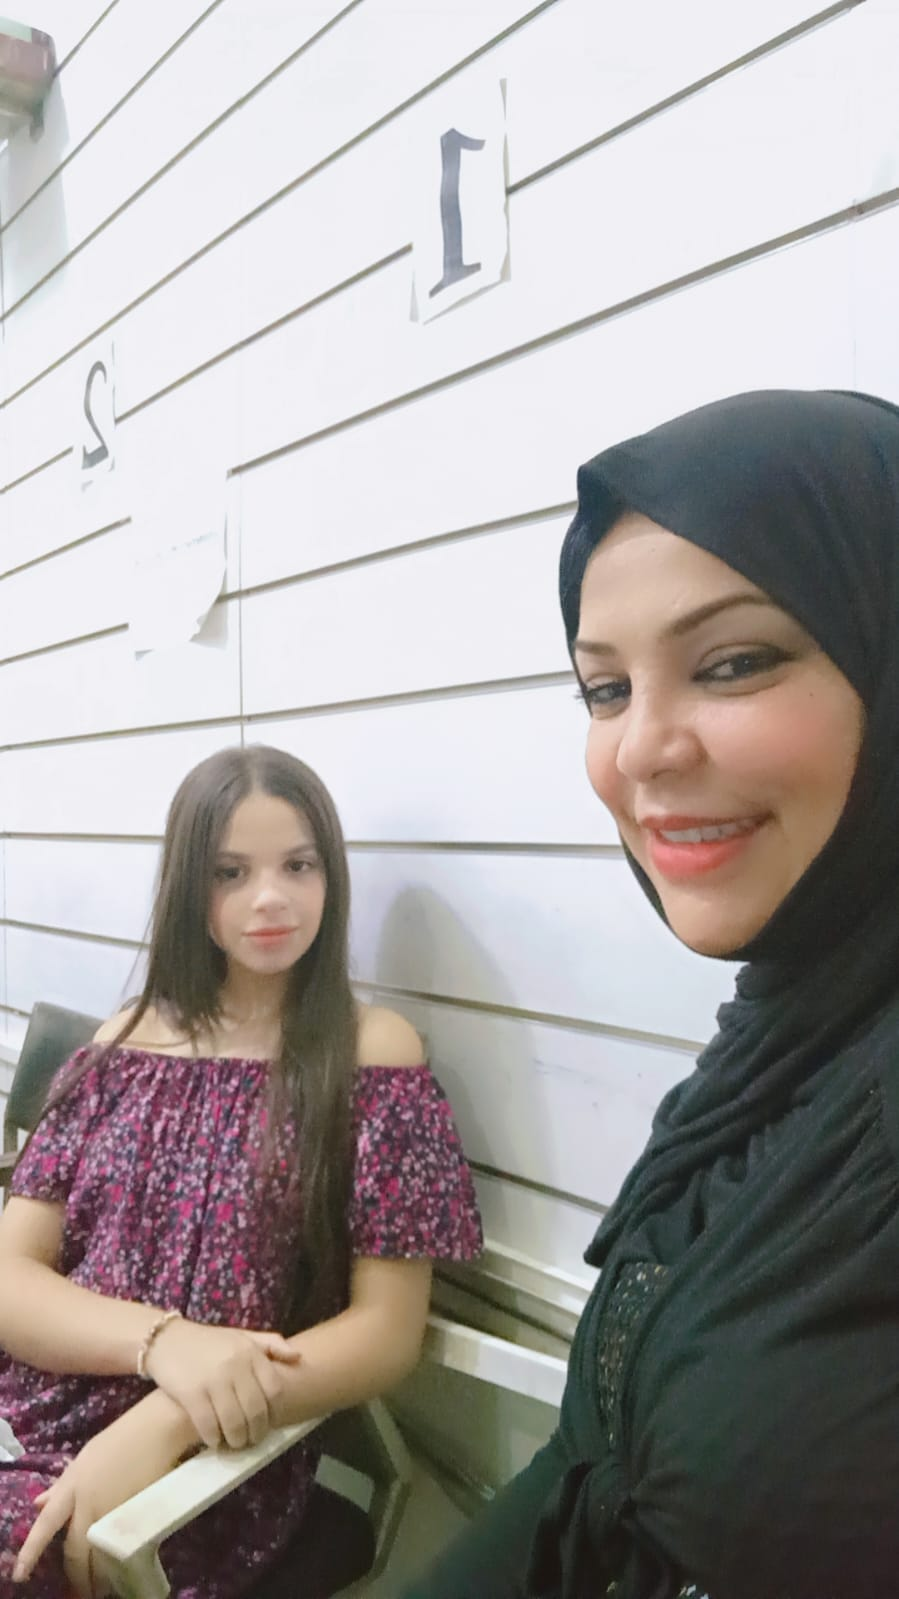
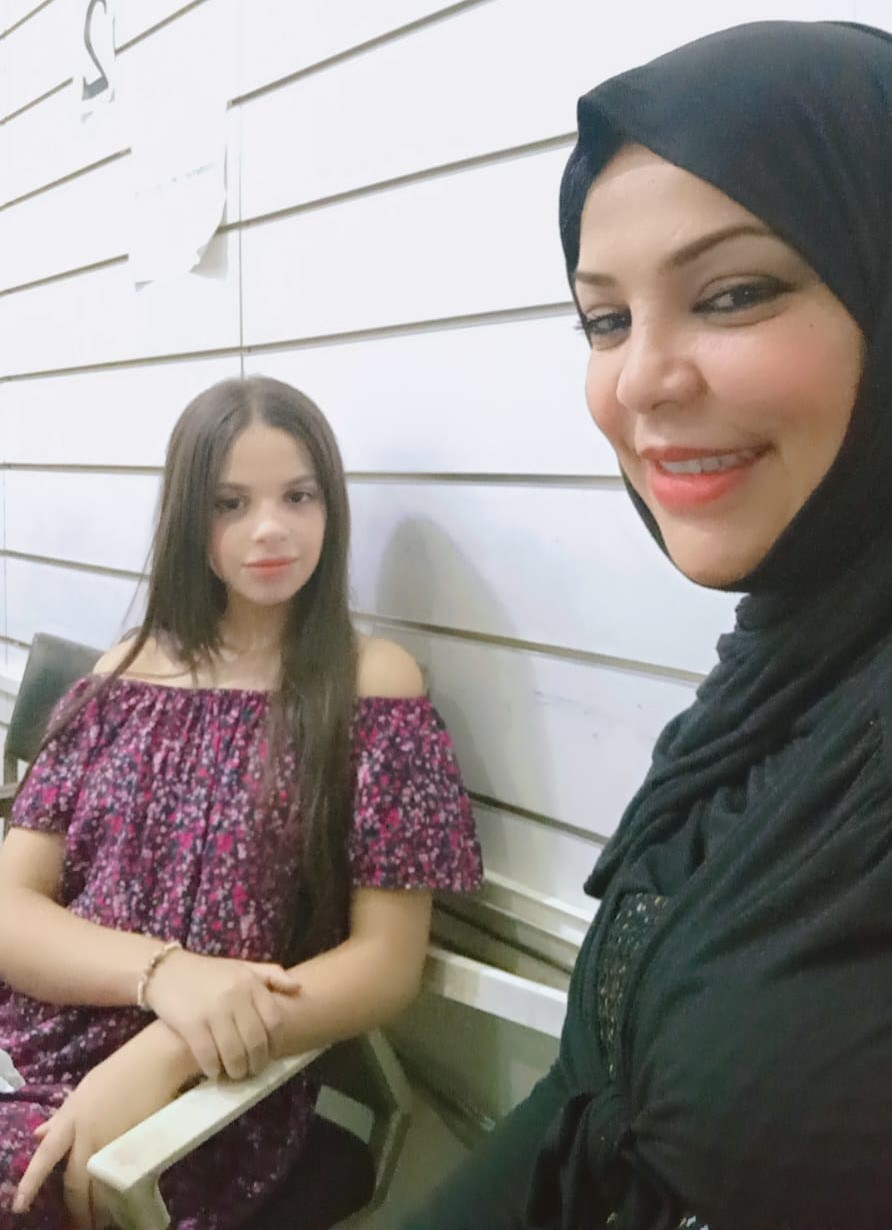
Configure perfect sharing metadata, update loader, add netlify.toml

diff --git a/index.html b/index.html
@@ -7,7 +7,24 @@
 		<meta name="description" content="Portfolio professionnel d'Amira Nawali (Amoura), fière maman de Mariem et Jihed." />
 		<meta name="keywords" content="Amira Nawali, Amoura, Portfolio, Mariem, Jihed, Créative, Premium" />
 		<meta name="author" content="Amira Nawali" />
-		<link rel="shortcut icon" href="favicon.ico">
+		
+		<!-- Perfect Professional Sharing & Browser Icons -->
+		<link rel="icon" href="img/toff/IMG-20260911-WA0008.jpg" type="image/jpeg">
+		<link rel="apple-touch-icon" href="img/toff/IMG-20260911-WA0008.jpg">
+		
+		<!-- Open Graph / Facebook -->
+		<meta property="og:type" content="website">
+		<meta property="og:url" content="https://amira-portfolio.netlify.app/">
+		<meta property="og:title" content="Portfolio d'Amira Nawali (Amoura)">
+		<meta property="og:description" content="Portfolio professionnel d'Amira Nawali (Amoura), fière maman de Mariem et Jihed.">
+		<meta property="og:image" content="https://raw.githubusercontent.com/Marwenrb/Amira-Portfolio/main/img/toff/IMG-20260911-WA0008.jpg">
+
+		<!-- Twitter -->
+		<meta property="twitter:card" content="summary_large_image">
+		<meta property="twitter:title" content="Portfolio d'Amira Nawali (Amoura)">
+		<meta property="twitter:description" content="Portfolio professionnel d'Amira Nawali (Amoura), fière maman de Mariem et Jihed.">
+		<meta property="twitter:image" content="https://raw.githubusercontent.com/Marwenrb/Amira-Portfolio/main/img/toff/IMG-20260911-WA0008.jpg">
+
 		<link rel="stylesheet" href="https://use.typekit.net/tcc0udb.css">
 		<link rel="stylesheet" type="text/css" href="css/base.css" />
 		<link rel="stylesheet" type="text/css" href="css/rtl.css" />
@@ -60,6 +77,25 @@
 				--color-bg: #fff0f5; /* Soft pastel pink */
 				--color-link: #ff2d55; /* Apple bright pink */
 				--color-link-hover: #ff375f;
+			}
+
+			/* Show only selected language by default, expand on hover */
+			.language-toggle__button {
+				width: 44px !important;
+				overflow: hidden;
+				transition: width 0.4s cubic-bezier(0.25, 1, 0.5, 1) !important;
+			}
+			.language-toggle__button:hover {
+				width: 110px !important;
+			}
+			.language-toggle__languages {
+				opacity: 0;
+				transition: opacity 0.3s ease;
+				transition-delay: 0s;
+			}
+			.language-toggle__button:hover .language-toggle__languages {
+				opacity: 1;
+				transition-delay: 0.15s;
 			}
 
 			body {
@@ -185,21 +221,40 @@
 				z-index: 1000;
 				top: 50%;
 				left: 50%;
-				width: 50px;
-				height: 50px;
-				margin: -25px 0 0 -25px;
+				width: 60px;
+				height: 60px;
+				margin: -30px 0 0 -30px;
 				background: transparent;
-				border: 3px solid rgba(255, 45, 85, 0.2);
-				border-top-color: #ff2d55;
+				border: 2px solid rgba(255, 45, 85, 0.15);
 				border-radius: 50%;
-				animation: spinLoader 1s cubic-bezier(0.4, 0, 0.2, 1) infinite;
+				animation: pulseLoader 2s cubic-bezier(0.2, 0.8, 0.2, 1) infinite;
 				opacity: 1;
-				box-shadow: 0 0 20px rgba(255, 45, 85, 0.3);
+			}
+			
+			/* Adding an inner dot for the loader */
+			.js .loading::before {
+				content: '';
+				position: fixed;
+				z-index: 1001;
+				top: 50%;
+				left: 50%;
+				width: 12px;
+				height: 12px;
+				margin: -6px 0 0 -6px;
+				background: #ff2d55;
+				border-radius: 50%;
+				animation: innerDot 2s ease-in-out infinite;
 			}
 
-			@keyframes spinLoader {
-				0% { transform: rotate(0deg); }
-				100% { transform: rotate(360deg); }
+			@keyframes pulseLoader {
+				0% { transform: scale(0.5); opacity: 1; border-width: 20px; }
+				50% { transform: scale(1.5); opacity: 0; border-width: 2px; }
+				100% { transform: scale(0.5); opacity: 0; }
+			}
+			
+			@keyframes innerDot {
+				0%, 100% { transform: scale(1); opacity: 0.8; }
+				50% { transform: scale(1.5); opacity: 1; box-shadow: 0 0 15px rgba(255, 45, 85, 0.6); }
 			}
 		</style>
 	</head>

diff --git a/css/base.css b/css/base.css
@@ -1019,7 +1019,7 @@ h2 span:nth-child(even) {
 }
 
 /* Active language state - the orb covers this option */
-.language-toggle.lang-de .language-toggle__orb {
+.language-toggle.lang-fr .language-toggle__orb {
     transform: translateX(0px);
 }
 
@@ -1032,8 +1032,8 @@ h2 span:nth-child(even) {
 }
 
 /* Show text for non-active languages */
-.language-toggle.lang-de .language-toggle__option[data-lang="en"] .language-toggle__option-text,
-.language-toggle.lang-de .language-toggle__option[data-lang="ar"] .language-toggle__option-text,
+.language-toggle.lang-fr .language-toggle__option[data-lang="en"] .language-toggle__option-text,
+.language-toggle.lang-fr .language-toggle__option[data-lang="ar"] .language-toggle__option-text,
 .language-toggle.lang-en .language-toggle__option[data-lang="de"] .language-toggle__option-text,
 .language-toggle.lang-en .language-toggle__option[data-lang="ar"] .language-toggle__option-text,
 .language-toggle.lang-ar .language-toggle__option[data-lang="de"] .language-toggle__option-text,
@@ -1065,7 +1065,7 @@ h2 span:nth-child(even) {
     left: auto;
 }
 
-.rtl .language-toggle.lang-de .language-toggle__orb {
+.rtl .language-toggle.lang-fr .language-toggle__orb {
     transform: translateX(0px);
 }
 

diff --git a/js/index.js b/js/index.js
@@ -46,5 +46,9 @@ contentElems.forEach(el => new Content(el));
 // smooth scrolling with Lenis
 initSmoothScrolling();
 
-// Preload images then remove loader (loading class) from body
-preloadImages('.canvas-wrap').then(() => document.body.classList.remove('loading'));
+// Preload images then remove loader (loading class) from body with a premium delay
+preloadImages('.canvas-wrap').then(() => {
+    setTimeout(() => {
+        document.body.classList.remove('loading');
+    }, 1500); // 1.5 second delay for premium feel
+});

diff --git a/README.md b/README.md
@@ -2,7 +2,7 @@
 
 A premium, interactive personal portfolio website for Amira Nawali featuring an ultra-catchy feminine Apple-like UI/UX design, smooth transitions, and multilanguage support (French, English, Arabic).
 
-![Amira Nawali Portfolio](img/toff/IMG-20260911-WA0008.jpg)
+[Amira Nawali Portfolio]
 
 ## Features
 
@@ -36,9 +36,11 @@ A premium, interactive personal portfolio website for Amira Nawali featuring an 
 ## Development Team
 
 ### Original Concept & Content
+
 - **Amira Nawali (Amoura)**
 
 ### Enhancement and UI/UX Design
+
 - **Marwen Rabai** - Premium UI/UX Design & Frontend Development
   - [Portfolio](http://marwenrabai.com)
   - Email: rbnarwenrba@gmail.com
